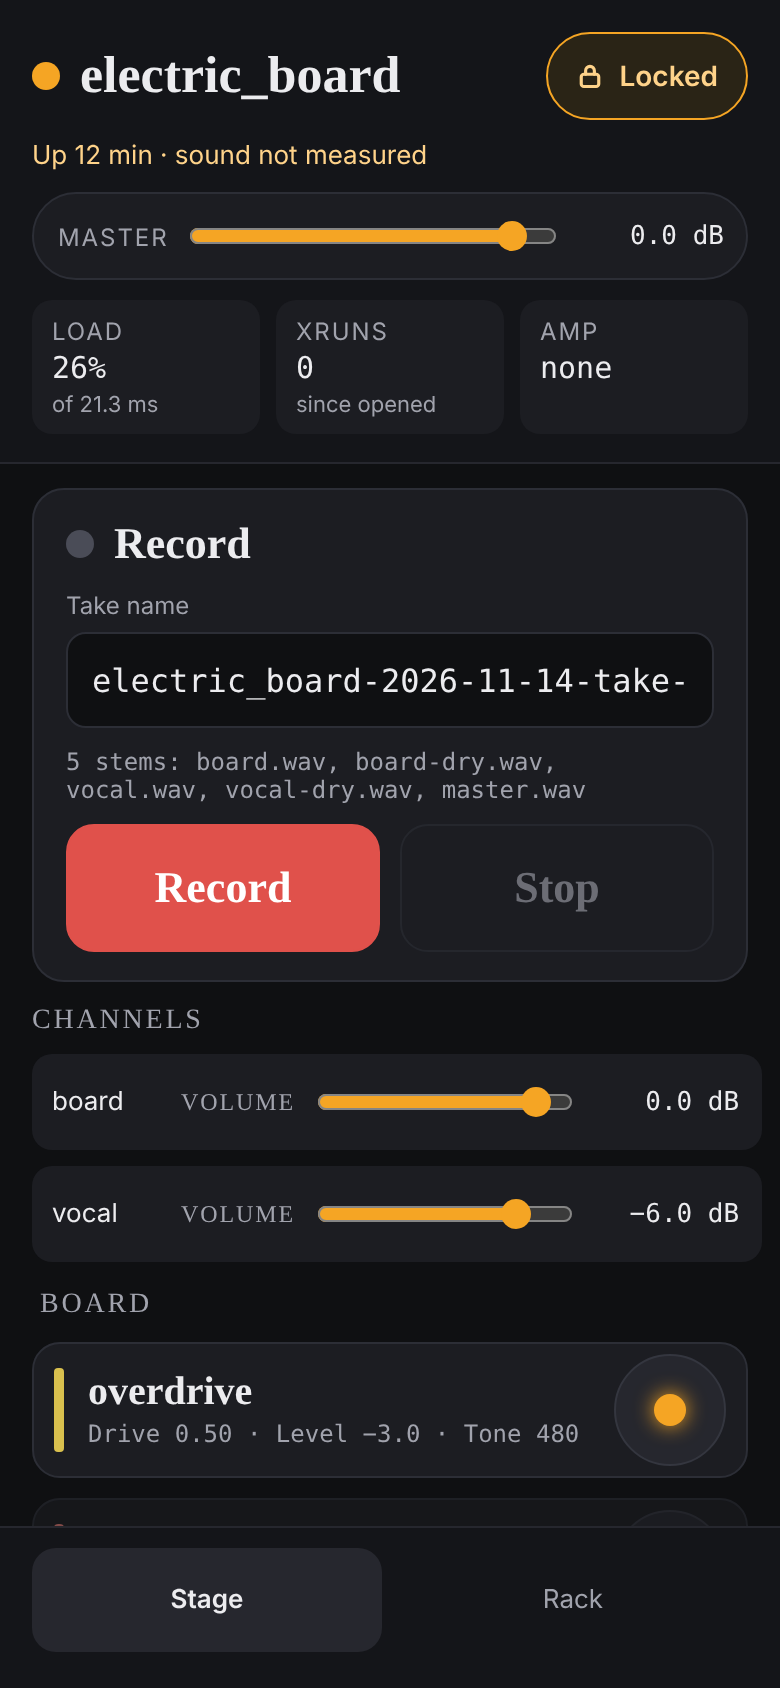
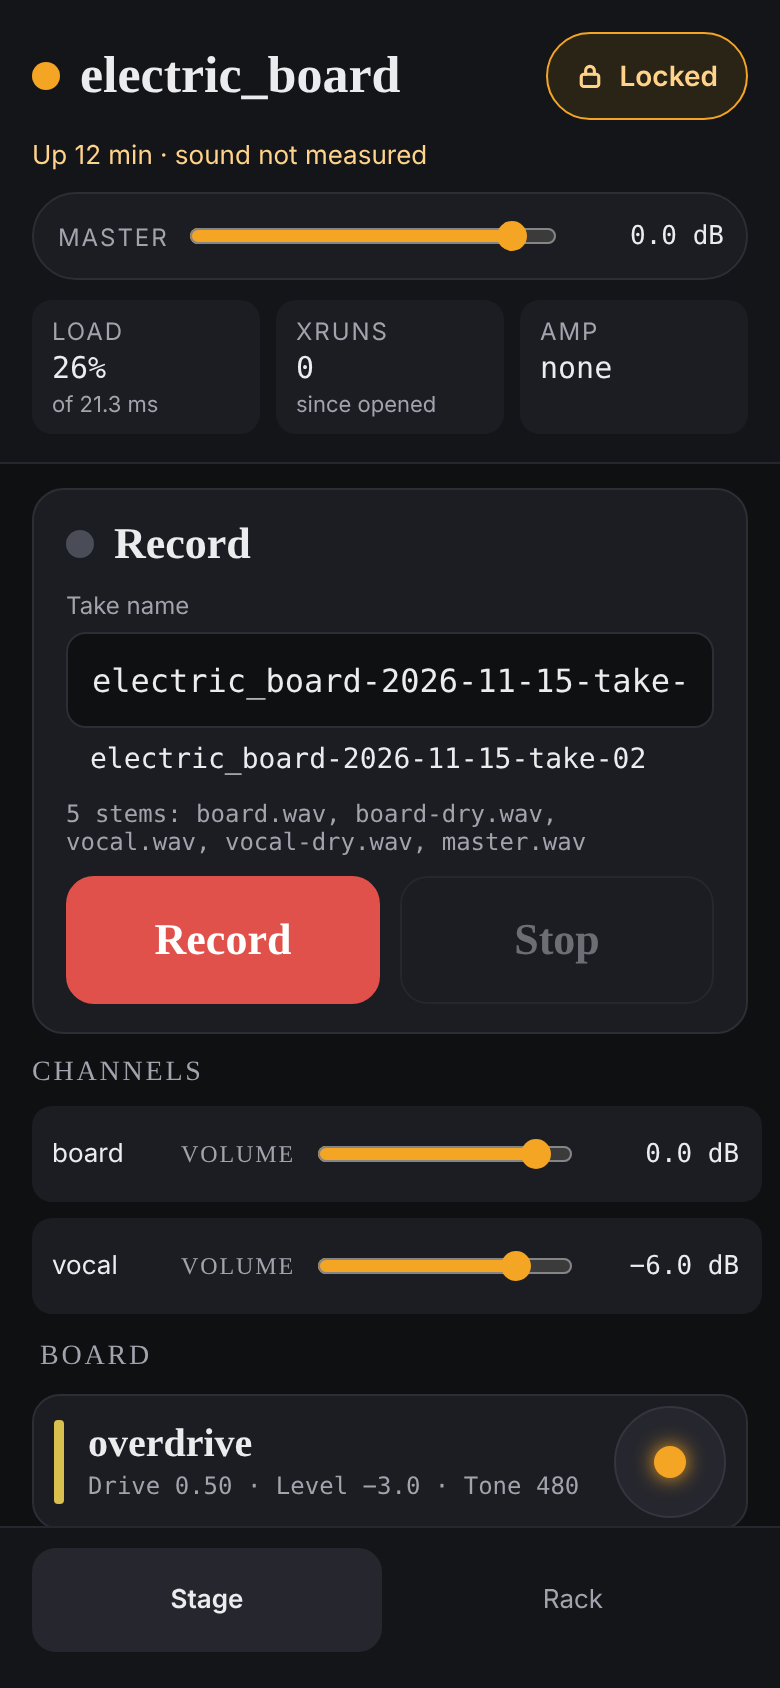
Docs and pictures: the take's whole name is under the box when it is cut
The guide and the web UI reference said the name box could be too short
to show the take's number. They now say what the page does: a name the
box cuts is written out in full under it. The guide tells the stems line
by where it is, since on a phone the line under the box is now the name.

stage-phone.png and recording.png retaken with tests/guide_shots.py, and
their alt texts follow; the MANIFEST entry says what was retaken and what
was left.

Claude-Session: https://claude.ai/code/session_019Pcg2R4ZAgHxiixbiur9hj

diff --git a/docs/guide/recording.md b/docs/guide/recording.md
@@ -8,7 +8,7 @@ The page calls a take's sound files **stems**.
 
 Recording is on the **stage** screen, and works while the page is **Locked**.
 
-<img src="img/recording.png" alt="The stage screen while recording: the Record bar turned red, reading Recording with the time 0:47, the take name electric_board-2026-11-14-take-01 that the rig gave it, the five stems it is writing, and the Stop button" width="420">
+<img src="img/recording.png" alt="The stage screen while recording: the Record bar turned red, reading Recording with the time 0:47, the take name electric_board-2026-11-15-take-01 that the rig gave it, the five stems it is writing, and the Stop button" width="420">
 
 ## Record a take
 
@@ -20,9 +20,11 @@ Recording is on the **stage** screen, and works while the page is **Locked**.
    will get: the rig, the date and a take number, such as
    `electric-clean-2026-11-14-take-03`. To keep it, leave the box alone. To use
    your own, tap the box and type: the whole name is selected, so typing
-   replaces it. Names are lowercase letters, digits, `-` and `_`.
-4. Look at the line under the name box. It lists the stems this take will
-   write, for example
+   replaces it. Names are lowercase letters, digits, `-` and `_`. On a phone
+   the box is too short for most names, so the whole name is also written out
+   just under it, take number and all.
+4. Look at the small line just above **Record**. It lists the stems this take
+   will write, for example
    `5 stems: board.wav, board-dry.wav, vocal.wav, vocal-dry.wav, master.wav`.
 5. Tap **Record**. The bar turns red and reads **Recording**, with the take's
    name and a running clock.
@@ -88,8 +90,8 @@ Things worth knowing about these files:
 - **The name you are given** is the rig's name, the day, and a take number: the
   third take of `electric-clean` on 14 November is
   `electric-clean-2026-11-14-take-03`. After each take the number in the box
-  moves on. On a narrow screen the box can be too short to show the number at
-  the end.
+  moves on. When the box is too short to show a whole name, the whole name is
+  written out under the box, so the number can always be read.
 - **A name you type stays in the box** until you record with it or clear it.
   Empty the box and the given name comes back.
 - **The number is one more than the highest so far** for that rig on that day,

diff --git a/docs/reference/web-ui.md b/docs/reference/web-ui.md
@@ -214,10 +214,21 @@ no Node and the UI has to run from a checkout. Two screens from the mockups
   count at that moment. **Selecting the default on a tap is untested on
   WebKit, so on a real phone**: only Chromium is in the tests, and the
   selection is deferred past the tap because WebKit places the caret after the
-  focus event (`app.js`, `nameField`). At a phone's width the field is
-  narrower than a default name: at 390 px it shows
-  `electric_board-2026-11-14-take-` and not the number (seen in
-  `docs/guide/img/stage-phone.png`). A name
+  focus event (`app.js`, `nameField`). A name the field is too narrow to
+  show whole is also written out on a line under the field, wrapped
+  (`drawNameWhole`, `.take-whole`), so the take's number is always on the
+  page: at 390 px the field holds about 31 characters, and a default is the
+  rig's name and 19 more with its number last, so every rig but the shortest
+  gets the line on a phone (`docs/guide/img/stage-phone.png`), and the
+  64-character longest gets it on a desktop too, where the stage is 520 px at
+  most. A name the field shows whole has no such line. The line is of
+  whatever the field holds, a typed name too, measured (`scrollWidth` against
+  `clientWidth`) each time the bar is drawn, on each key and when the field is
+  left; the field itself, its 16 px type (under 16, a phone's browser zooms
+  the page when a field is entered), its caret and its scroll are untouched.
+  **Untested on WebKit** like the selection: if a browser does not report a
+  field's `scrollWidth`, the line is absent and the field cuts the name as it
+  did. A name
   already taken says the earlier take moves to `_archive/`. Why recording is
   off is said on the bar (no rig, the panel, a v1 run, no recorder, or the
   recorder's own reason). The rack lists the takes beside Save, each with its

diff --git a/MANIFEST.md b/MANIFEST.md
@@ -3930,7 +3930,19 @@ Tests, in `test_ui.py`: at 390 and 1280 px, for `clean`, `electric_board`,
 `hard-feelings-record` and the 64-character rig, the number is drawn inside
 the bar and the window and nothing scrolls sideways, idle, recording and
 recorded; the line follows typing and leaves the caret alone; the rack's list
-shows the longest name whole. #145's tests pass unchanged. **Not run here:**
+shows the longest name whole. #145's tests pass unchanged. **The docs**
+(#146 was merged into this branch): `docs/guide/recording.md` and
+`docs/reference/web-ui.md` said the box could be too short to show the number,
+which is no longer so; the guide now says the whole name is written out under
+the box, and tells the stems line by where it is (just above **Record**), not
+as the line under the box, which on a phone is now the name; the reference
+says what the field does. The two pictures that show the record bar were
+retaken with `tests/guide_shots.py`: `stage-phone.png`, which now shows the
+name in full under the box, and `recording.png`, in which only the day in the
+take's name differs; their alt texts follow. The script retakes every
+picture; `save-and-revert.png` came out different too (it does not show the
+bar) and was left as it was. The fast suite: 4372 passed, 41 skipped.
+**Not run here:**
 any browser but headless Chromium, so not the phone: whether Safari reports a
 field's `scrollWidth` as Chromium does is unchecked, and if it does not the
 line is simply absent, as before; the slow tests and the container job.

diff --git a/docs/guide/playing-live.md b/docs/guide/playing-live.md
@@ -11,7 +11,7 @@ phone this is not yet recorded as tried: see
 click **Stage** at the top of the rack; **Rack**, at the bottom of the stage
 screen, takes you back.
 
-<img src="img/stage-phone.png" alt="The stage screen at a phone's width: the rig's name and the Locked button, the master volume, the load, xruns and amp tiles, the Record bar with the next take's name filled in, each channel's volume, and a card for each plugin with a round bypass button" width="320">
+<img src="img/stage-phone.png" alt="The stage screen at a phone's width: the rig's name and the Locked button, the master volume, the load, xruns and amp tiles, the Record bar with the next take's name filled in and written out in full under the box, each channel's volume, and a card for each plugin with a round bypass button" width="320">
 
 ## What is on the stage screen
 
